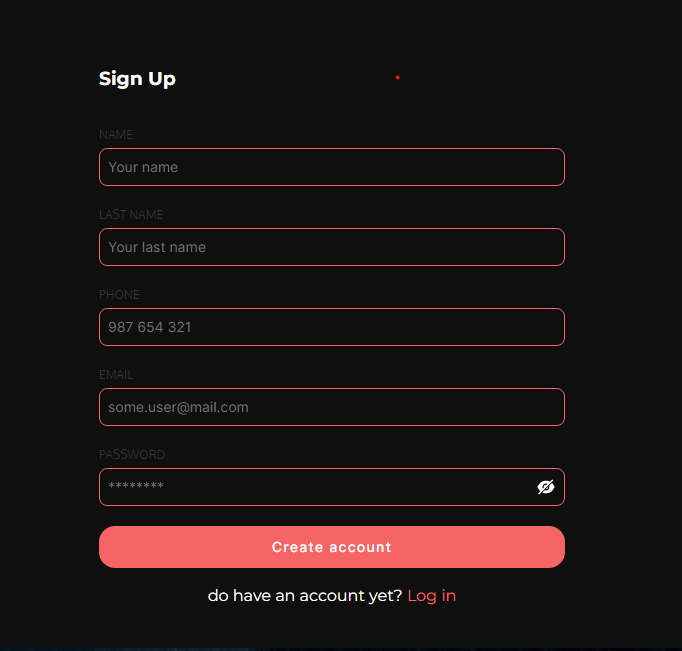
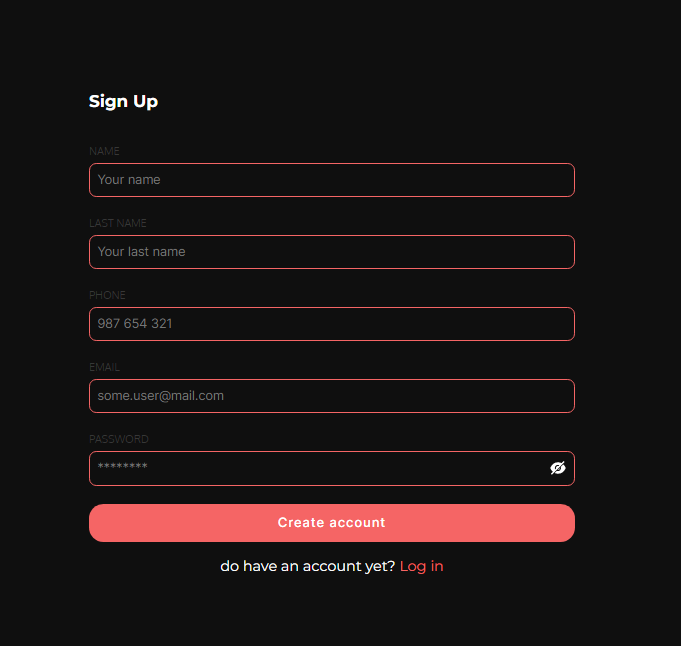
Modificated demo readme.md

diff --git a/src/assets/global/global.js b/src/assets/global/global.js
@@ -95,6 +95,5 @@ export const global = css`
   body {
     background: ${colors.background};
     color: ${colors.white};
-    display: flex;
   }
 `;

diff --git a/README.md b/README.md
@@ -13,8 +13,8 @@
 ## Demo:
 
 <div align="center" style="display:flex; flex-wrap: wrap;" >
-  <img src="https://github.com/jhosepct/vinco-movies-frontend/blob/main/2.png" title="hover text">
   <img src="https://github.com/jhosepct/vinco-movies-frontend/blob/main/1.png" title="hover text">
+  <img src="https://github.com/jhosepct/vinco-movies-frontend/blob/main/2.png" title="hover text">
   <img src="https://github.com/jhosepct/vinco-movies-frontend/blob/main/3.png" title="hover text">
   <img src="https://github.com/jhosepct/vinco-movies-frontend/blob/main/4.png" title="hover text">
 </div>
